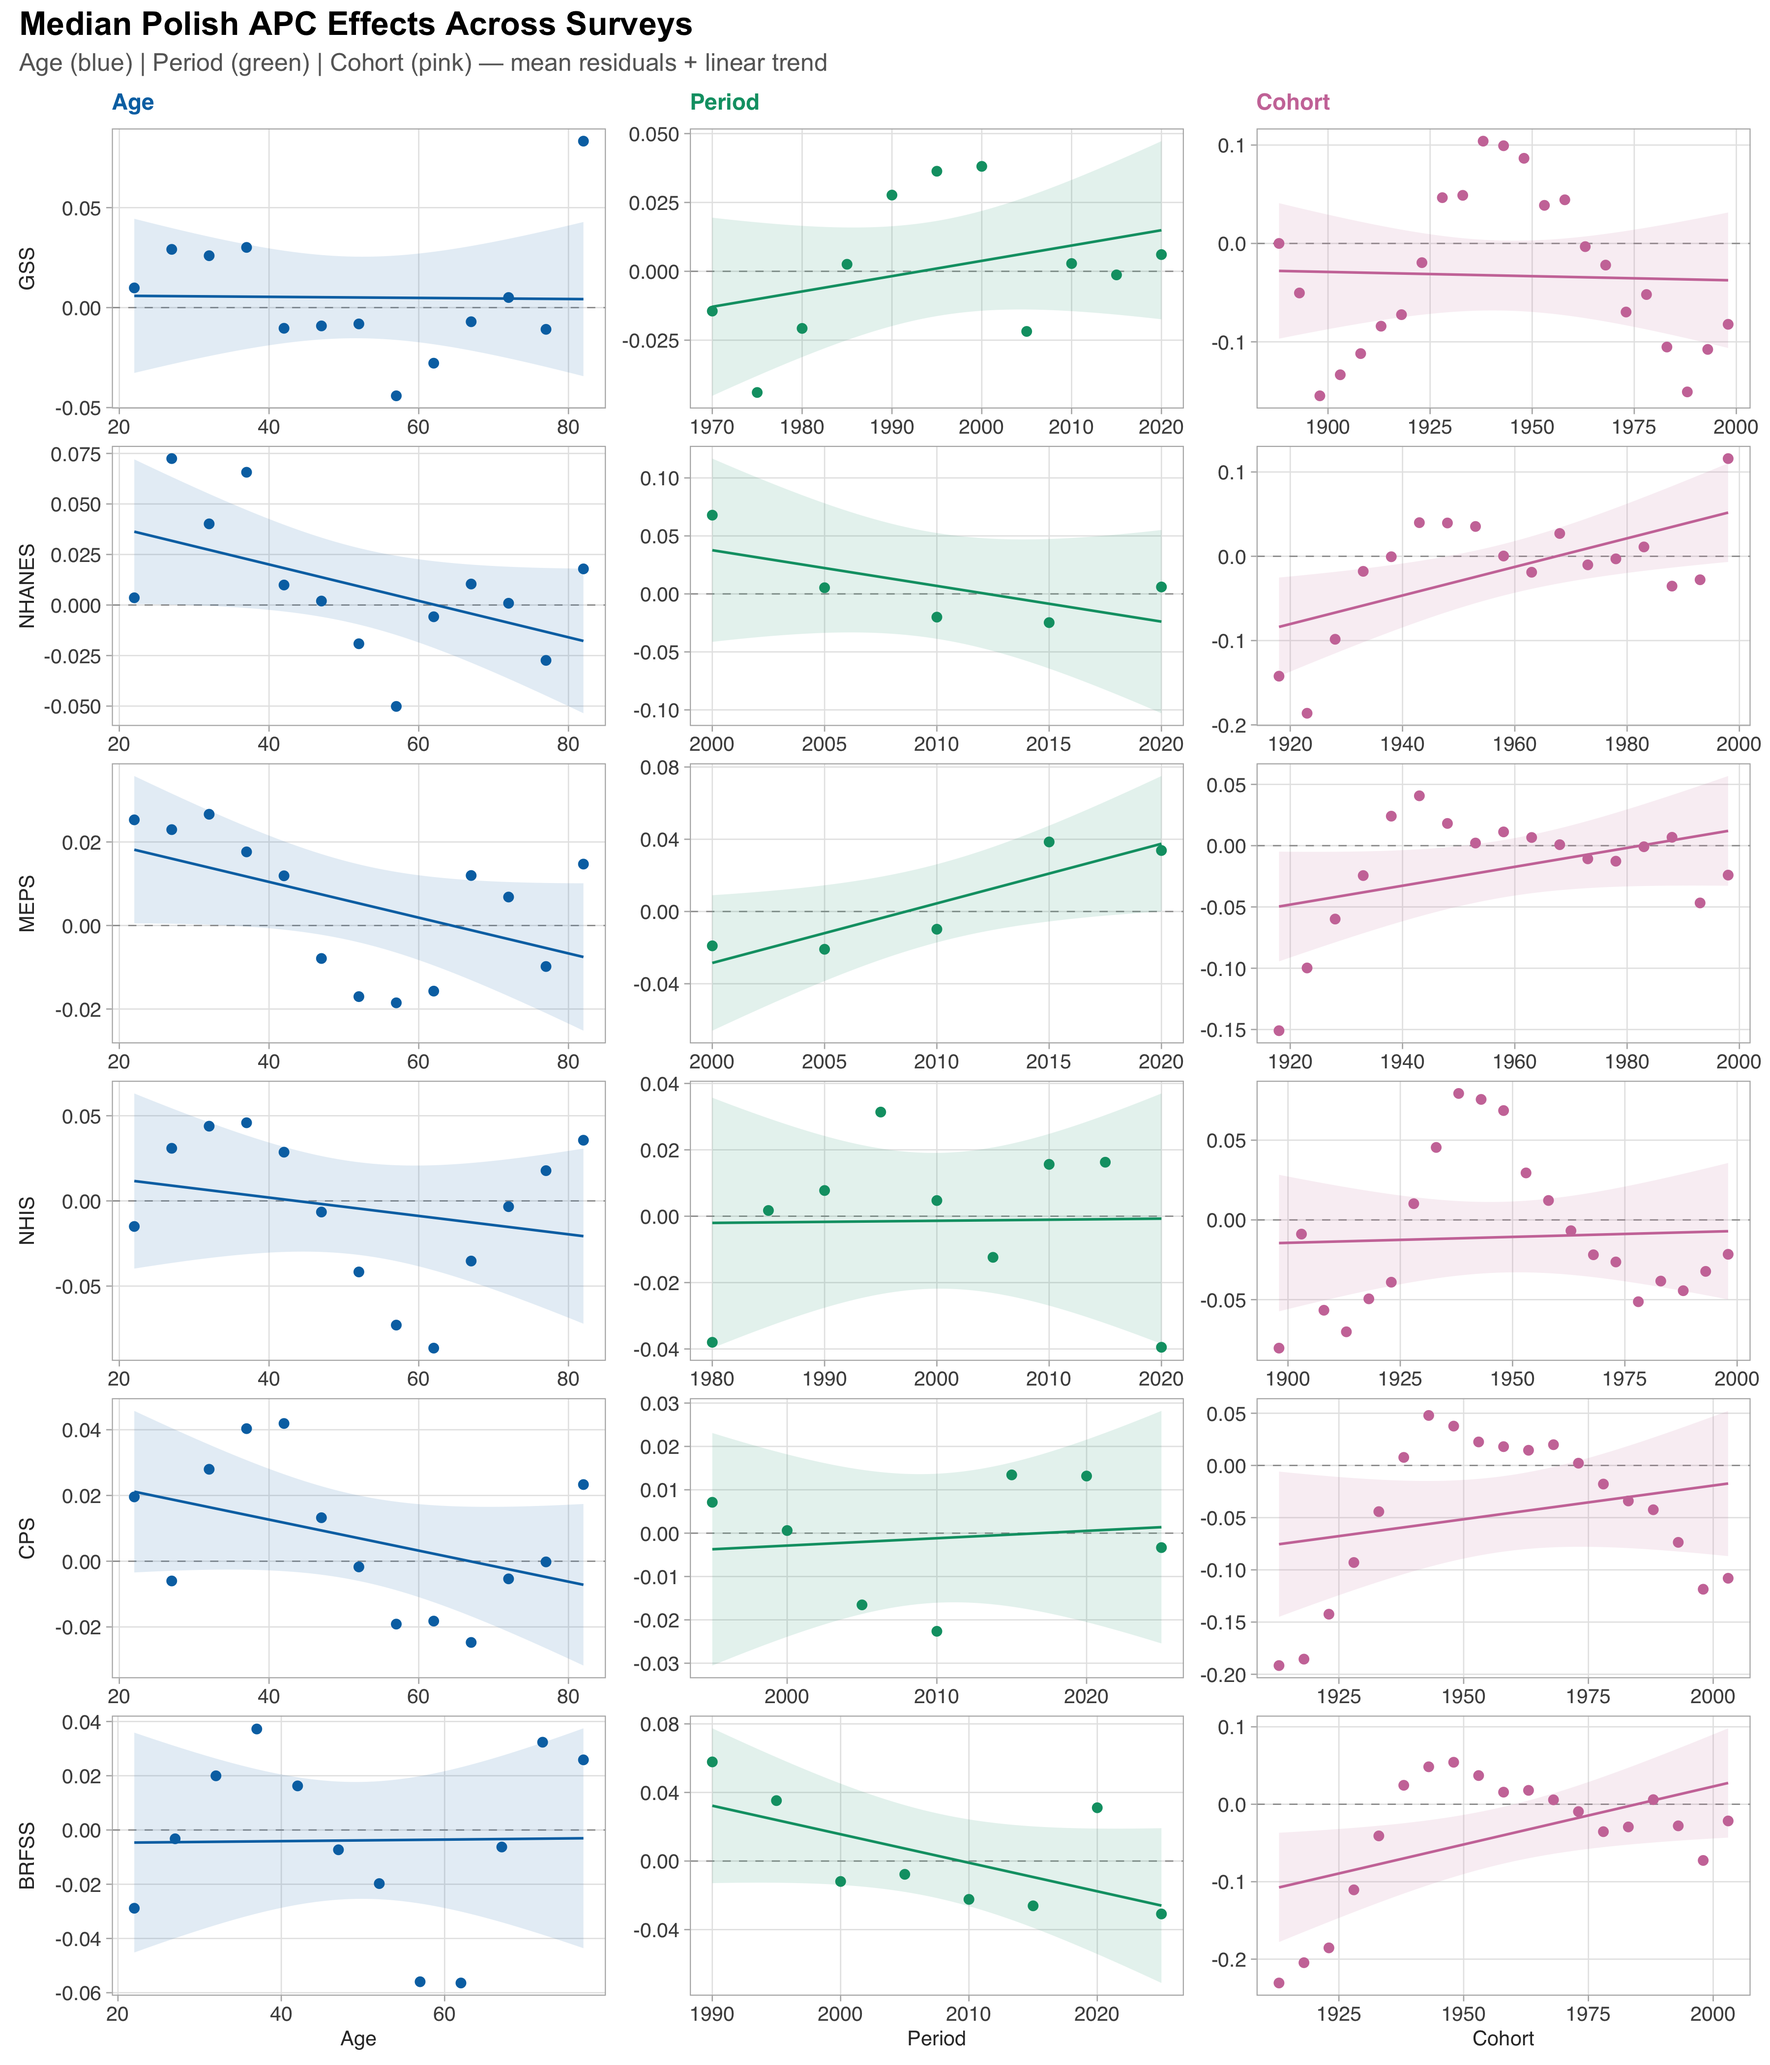
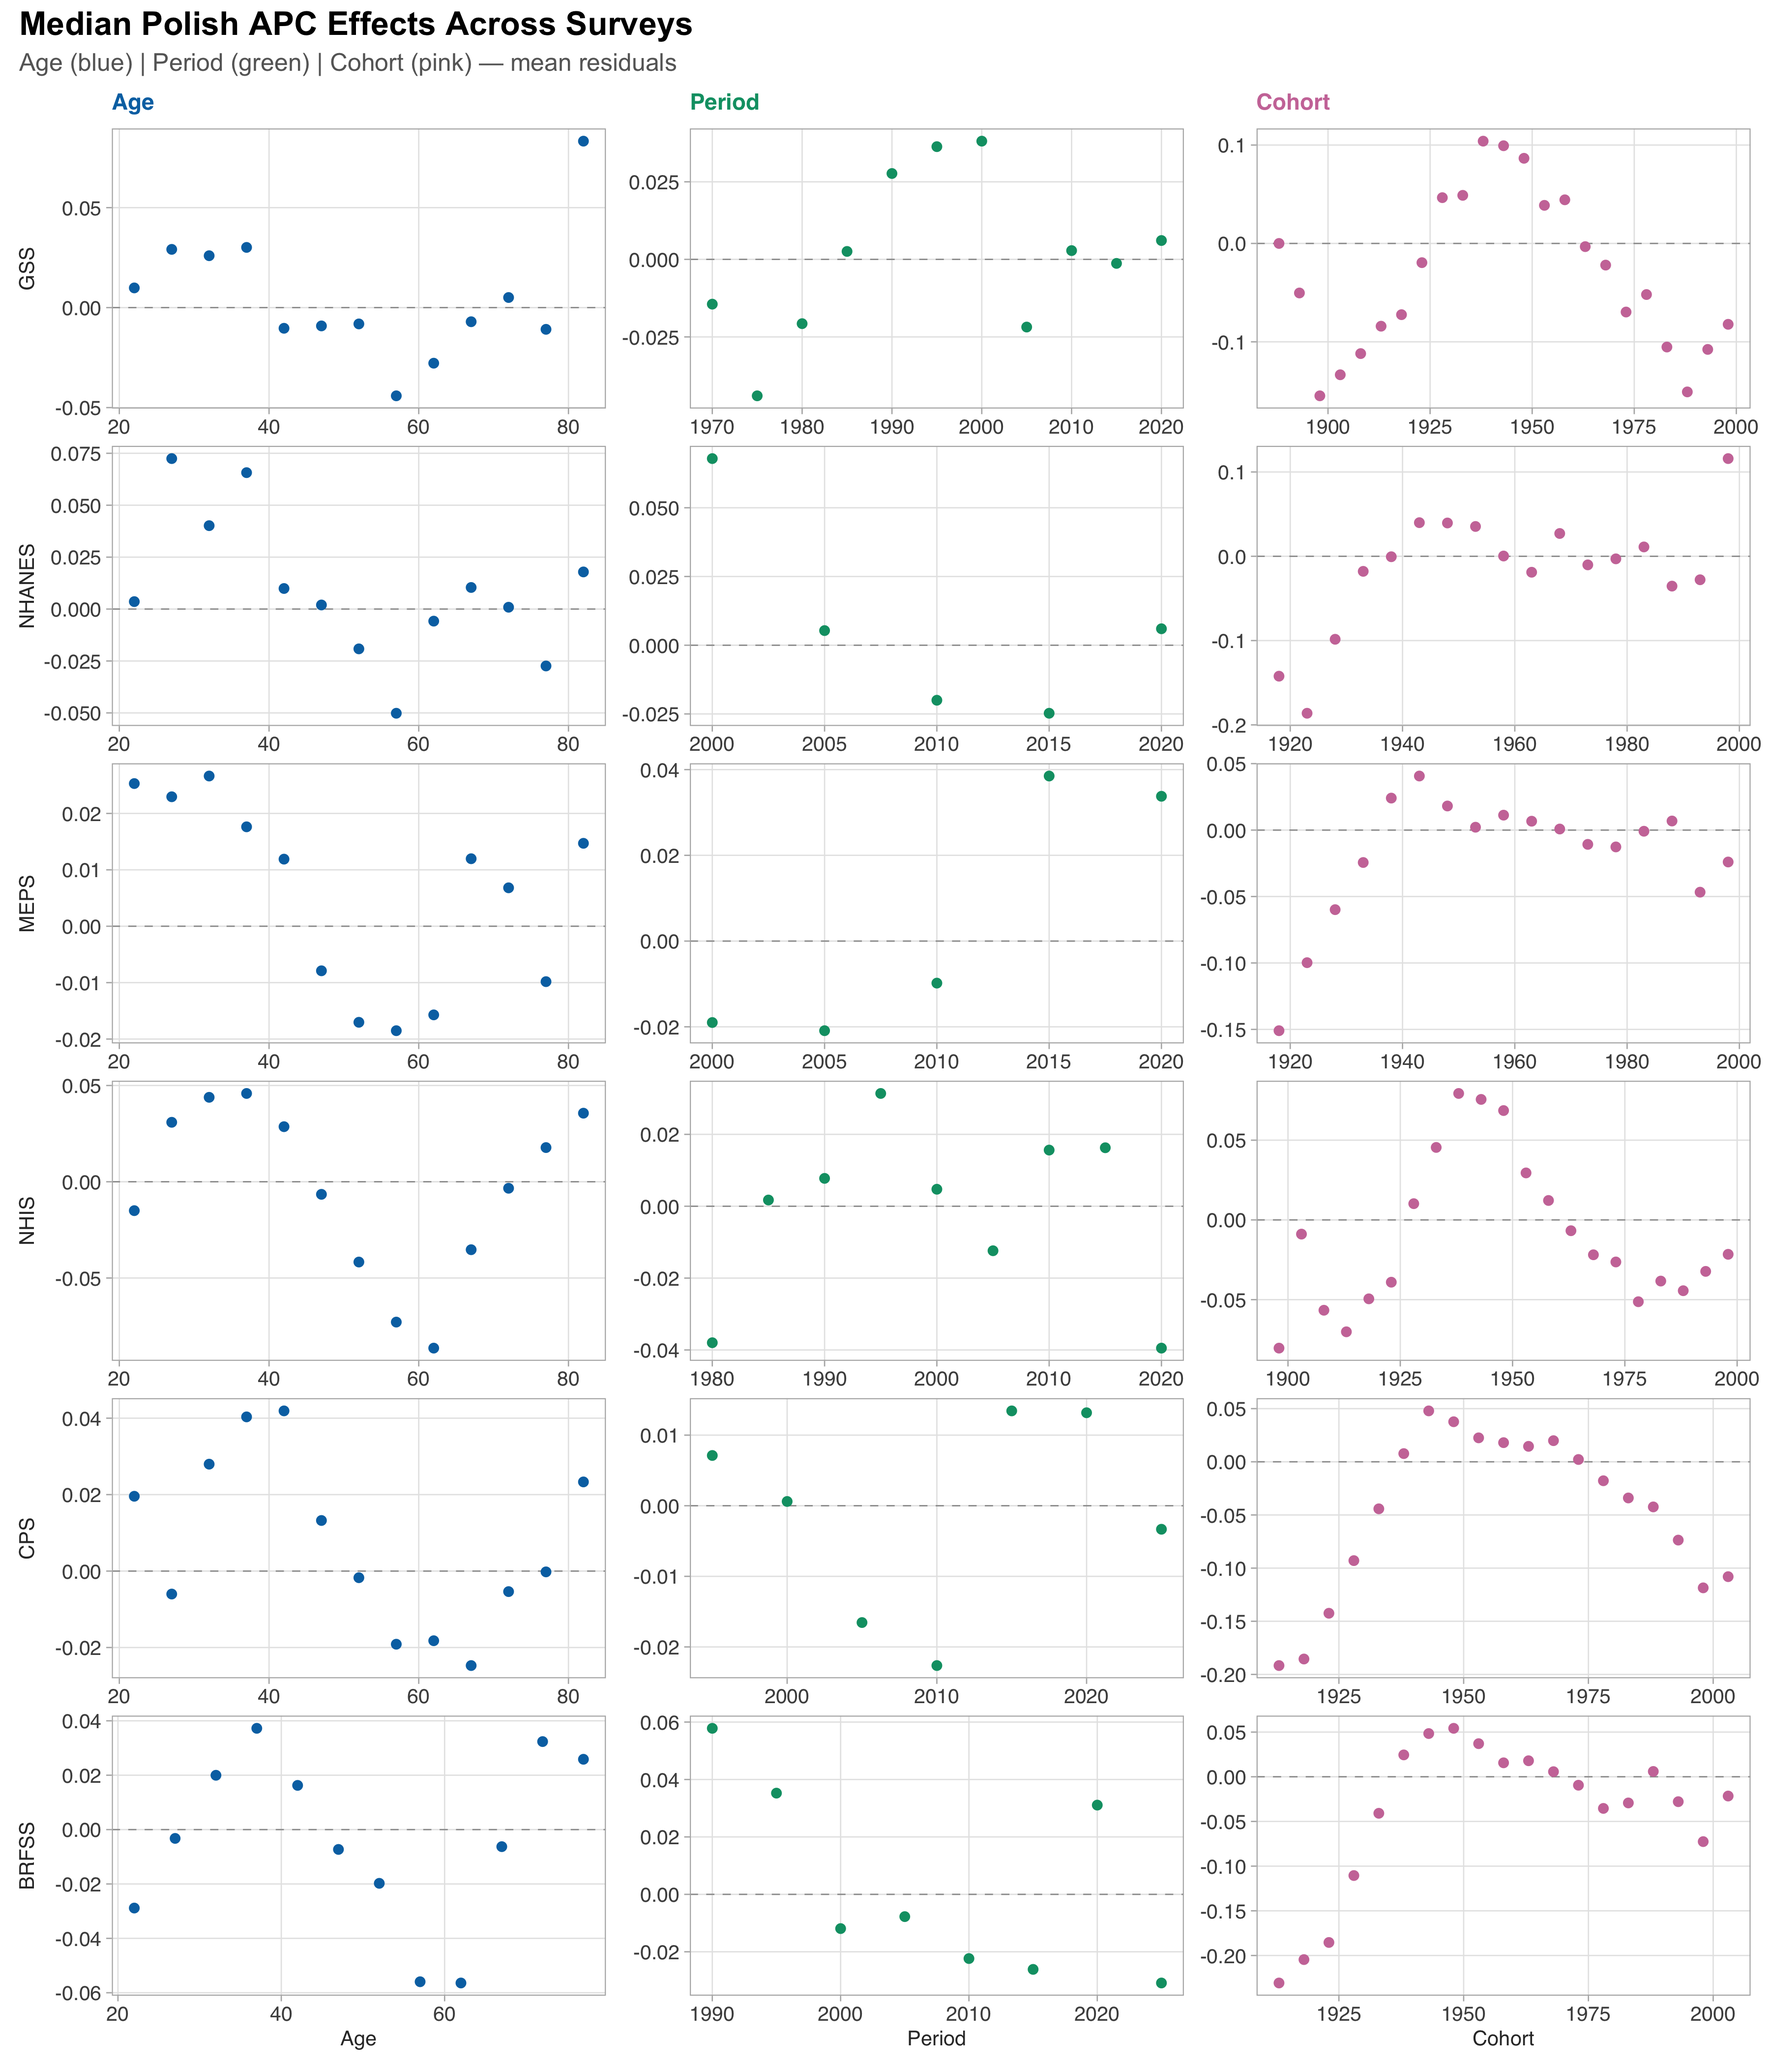
Remove linear trend fits from median polish APC effect plots
The linear trend lines didn't fit the data well and were misleading.
Removed geom_smooth(method = "lm") from all four plotting functions:
plot_medpolish_combined, plot_medpolish_combined_simple,
plot_medpolish_effects, and plot_medpolish_all_surveys.

diff --git a/reports/medpolish_apc_report.md b/reports/medpolish_apc_report.md
@@ -642,4 +642,4 @@ negligible calendar-time trends.
 
 ------------------------------------------------------------------------
 
-*Report generated 2026-02-09 18:46:36.23665*
+*Report generated 2026-02-09 19:08:17.883036*
